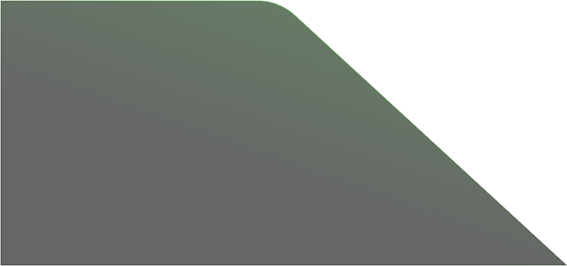
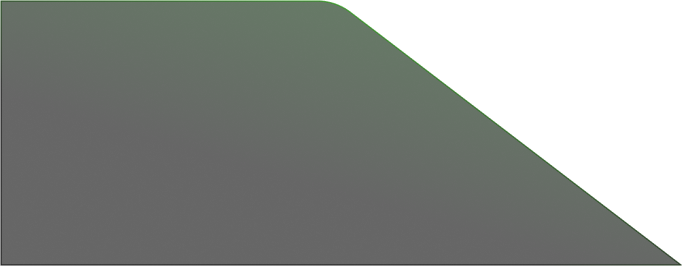
check

diff --git a/src/components/PortfolioSection/PortfolioSection.jsx b/src/components/PortfolioSection/PortfolioSection.jsx
@@ -31,10 +31,10 @@ const PortfolioSection = () => {
           <button className="portfolio__button">View Full Portfolio</button>
         </div>
 
-         {/* <div className="feature__svg-wrapper">
-    <img src="/images/resultleft.svg" alt="Left Decoration" className="feature__svg feature__svg--left" />
-    <img src="/images/resultright.svg" alt="Right Decoration" className="feature__svg feature__svg--right" />
-  </div> */}
+         <div className="feature__svg-wrapper">
+    <img src="/images/resultleft.png" alt="Left Decoration" className="feature__svg feature__svg--left" />
+    <img src="/images/resultright.png" alt="Right Decoration" className="feature__svg feature__svg--right" />
+  </div>
   <br />
   <br />
  <StackingCards/>
